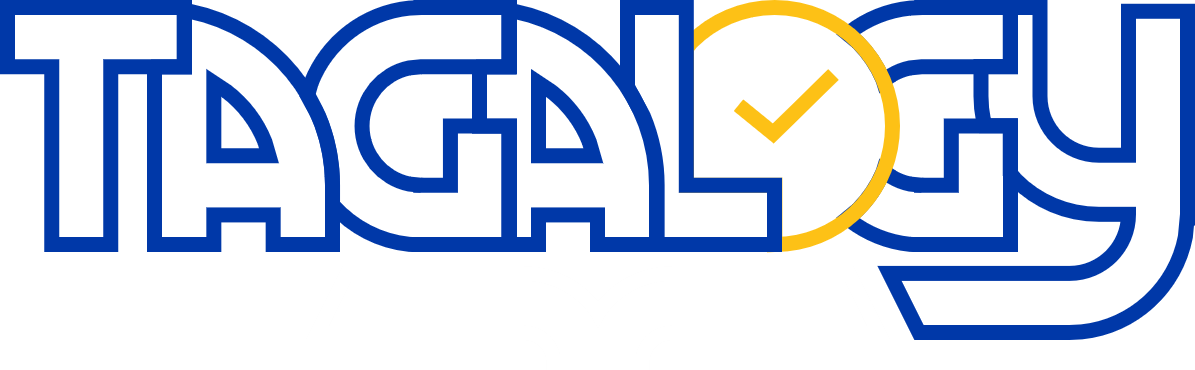
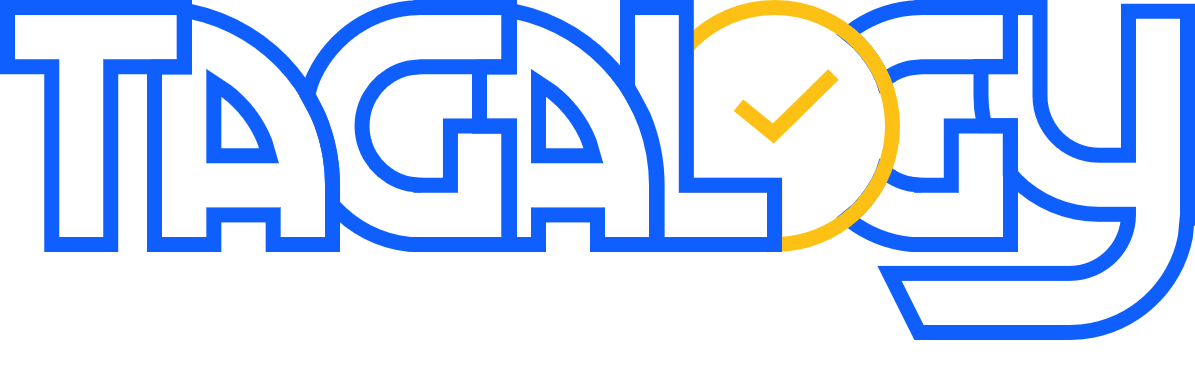
added accent color

Changed region(s): [[0.0, 0.0, 0.6812, 0.6838], [0.7121, 0.0, 1.0, 0.9216]]

diff --git a/public/src/screen/game/twist.js b/public/src/screen/game/twist.js
@@ -121,7 +121,7 @@ export async function start(wordBank) {
     clearFill.setColor(colors.BACKGROUND);
     clearLine.setColor(colors.PH_RED);
     clearColor.setColor(colors.PH_RED);
-    hyphenFill.setColor(colors.PH_BLUE);
+    hyphenFill.setColor(colors.ACCENT);
     hyphenLine.setColor(colors.TRANSPARENT);
     hyphenColor.setColor(colors.WHITE);
     if(prevClearHandler) clearPlace.off("interactup", prevClearHandler);
@@ -166,7 +166,7 @@ export async function start(wordBank) {
         clearFill.setColor(colors.BACKGROUND);
         clearLine.setColor(colors.PH_RED);
         clearColor.setColor(colors.PH_RED);
-        hyphenFill.setColor(colors.PH_BLUE);
+        hyphenFill.setColor(colors.ACCENT);
         hyphenLine.setColor(colors.TRANSPARENT);
         hyphenColor.setColor(colors.WHITE);
     };
@@ -178,15 +178,15 @@ export async function start(wordBank) {
         clearLine.setColor(colors.TRANSPARENT);
         clearColor.setColor(colors.WHITE);
         hyphenFill.setColor(colors.BACKGROUND);
-        hyphenLine.setColor(colors.PH_BLUE);
-        hyphenColor.setColor(colors.PH_BLUE);
+        hyphenLine.setColor(colors.ACCENT);
+        hyphenColor.setColor(colors.ACCENT);
     }
     hyphenPlace.on("interactup", prevHyphenHandler);
     let {length} = word;
     word.forEach((syllable, ind) => {
         syllable = syllable.toLowerCase();
         let lineColor = new Color(colors.TRANSPARENT);
-        let fillColor = new Color(colors.PH_BLUE);
+        let fillColor = new Color(colors.ACCENT);
         let textColor = new Color(colors.WHITE);
         let width = 1;
         let x = 0;
@@ -239,13 +239,13 @@ export async function start(wordBank) {
             },
             async oninteractup() {
                 if(gameState.paused) return;
-                lineColor.setColor(colors.PH_BLUE);
+                lineColor.setColor(colors.ACCENT);
                 fillColor.setColor(colors.BACKGROUND);
-                textColor.setColor(colors.PH_BLUE);
+                textColor.setColor(colors.ACCENT);
                 clearFill.setColor(colors.PH_RED);
                 clearLine.setColor(colors.TRANSPARENT);
                 clearColor.setColor(colors.WHITE);
-                hyphenFill.setColor(colors.PH_BLUE);
+                hyphenFill.setColor(colors.ACCENT);
                 hyphenLine.setColor(colors.TRANSPARENT);
                 hyphenColor.setColor(colors.WHITE);
                 if(this.pressed) return;
@@ -268,7 +268,7 @@ export async function start(wordBank) {
             if(! currentPlace.pressed) return;
             currentPlace.pressed = false;
             lineColor.setColor(colors.TRANSPARENT);
-            fillColor.setColor(colors.PH_BLUE);
+            fillColor.setColor(colors.ACCENT);
             textColor.setColor(colors.WHITE);
         };
         currentPlace.addTo(syllableBox);

diff --git a/public/src/screen/dialog_box.js b/public/src/screen/dialog_box.js
@@ -18,7 +18,7 @@ import timeout from "../timeout.js";
 let dialogBox, msgBox, cancelBox, okBox, cancelText, okText;
 let cancelFill = new Color;
 let cancelColor = new Color;
-let okFill = new Color(colors.PH_BLUE);
+let okFill = new Color;
 let okColor = new Color(colors.WHITE);
 let dialog = new Rectangle({
     x: 0,
@@ -100,7 +100,7 @@ let dialog = new Rectangle({
                                 okColor.setColor(colors.FOREGROUND);
                             },
                             oninteractup() {
-                                okFill.setColor(colors.PH_BLUE);
+                                okFill.setColor(colors.ACCENT);
                                 okColor.setColor(colors.WHITE);
                             }
                         })
@@ -111,6 +111,7 @@ let dialog = new Rectangle({
     })
 });
 export default async function popup(msg, ok, cancel) {
+    okFill.setColor(colors.ACCENT);
     cancelFill.setColor(colors.BACKGROUND);
     cancelColor.setColor(colors.FOREGROUND);
     dialog.addTo(scene);

diff --git a/public/src/main.js b/public/src/main.js
@@ -39,11 +39,13 @@ export function setTheme(currentTheme) {
         theme = "dark";
         colors.BACKGROUND.setColor(colors.BLACK);
         colors.FOREGROUND.setColor(colors.WHITE);
+        colors.ACCENT.setColor(colors.SKY_BLUE);
     }else{
         document.body.style.backgroundColor = "white";
         theme = "light";
         colors.BACKGROUND.setColor(colors.WHITE);
         colors.FOREGROUND.setColor(colors.BLACK);
+        colors.ACCENT.setColor(colors.PH_BLUE);
     }
 }
 storage.setAllDefault({

diff --git a/public/src/screen/difficulty.js b/public/src/screen/difficulty.js
@@ -37,7 +37,7 @@ let raw = [
 ];
 let box = new Object2D;
 let highscore = Object.create(null);
-let fill = colors.PH_BLUE;
+let fill = colors.ACCENT;
 raw.forEach(({name, description, difficultyKey, highscoreKey}, ind) => {
     let highscoreText;
     box.addChild(new Object2D({

diff --git a/public/src/asset.js b/public/src/asset.js
@@ -39,6 +39,7 @@ export let assets = loadAll();
 export let colors = {
     BACKGROUND: new Color("#fff"),
     FOREGROUND: new Color("#000"),
+    ACCENT: new Color("#0038a8"),
 
     TRANSPARENT: new Color("#0000"),
     WHITE: new Color("#fff"),
